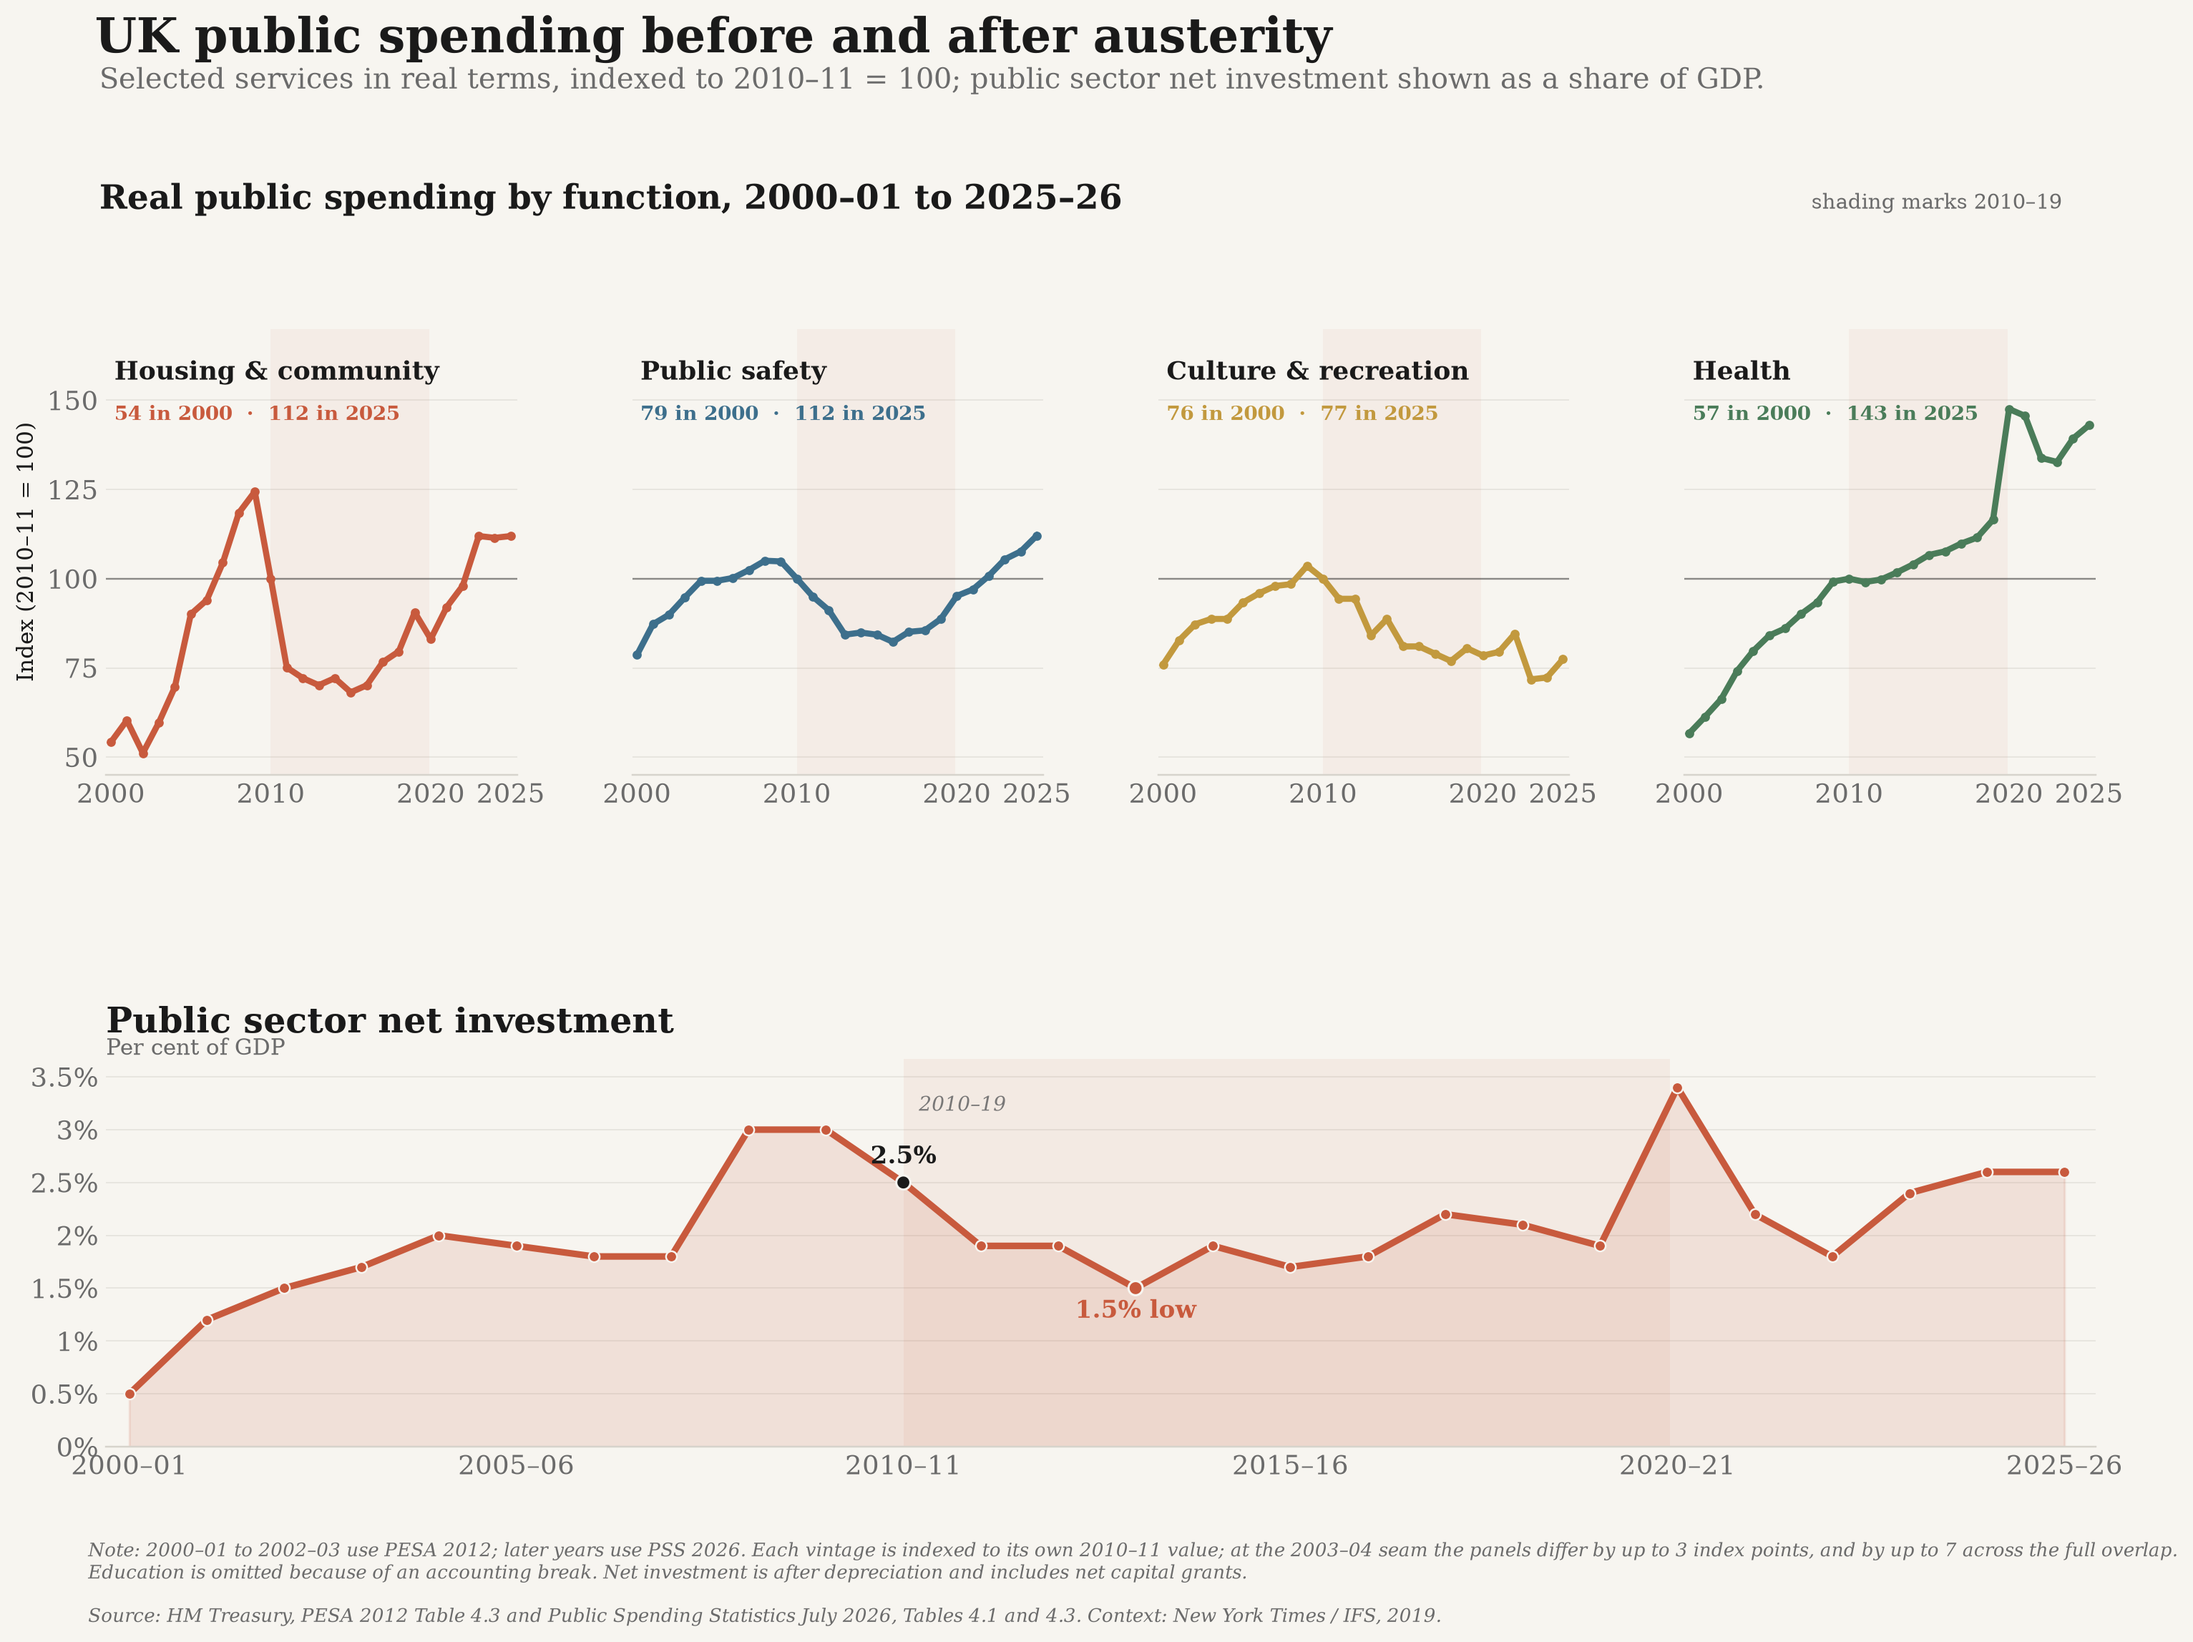
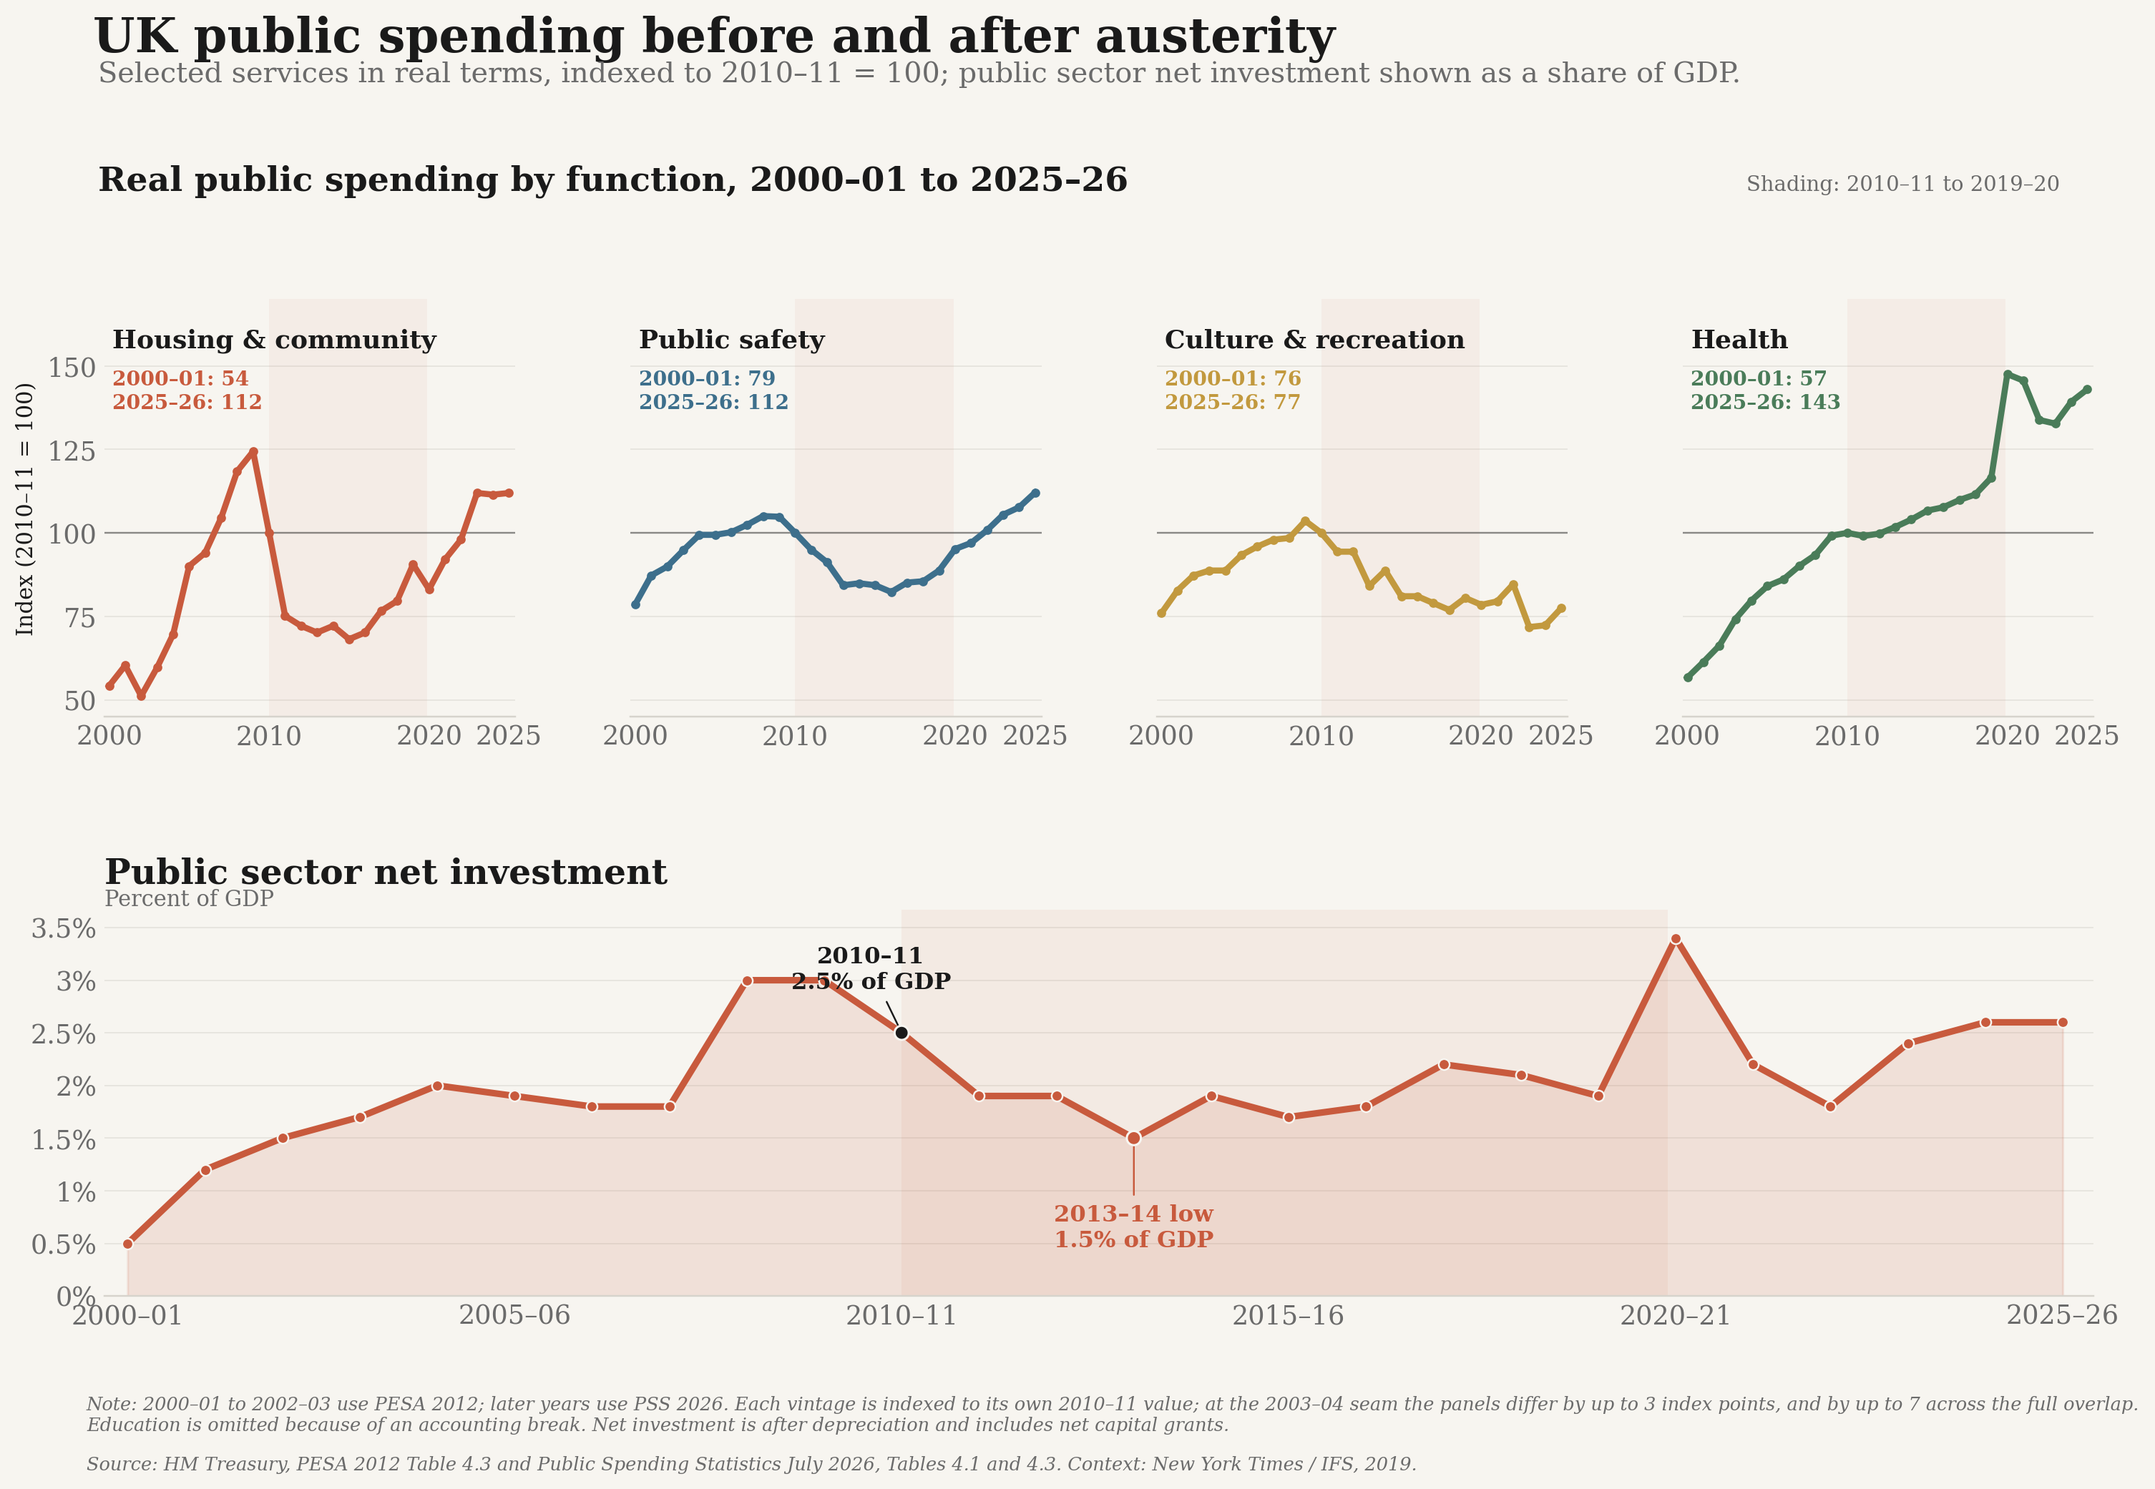
fix images

diff --git a/austerity_data/charts.py b/austerity_data/charts.py
@@ -123,11 +123,11 @@ def make_chart(source, output: Path | str = DEFAULT_OUTPUT) -> Path:
     df = _load(source)
     house_style()
 
-    fig = plt.figure(figsize=(14.2, 10.6), facecolor=BG)
+    fig = plt.figure(figsize=(14.2, 9.6), facecolor=BG)
     grid = fig.add_gridspec(
         2, 4,
-        height_ratios=[1.15, 1],
-        hspace=0.68,
+        height_ratios=[1.08, 1],
+        hspace=0.48,
         wspace=0.28,
     )
     service_axes = [fig.add_subplot(grid[0, i]) for i in range(4)]
@@ -191,12 +191,13 @@ def make_chart(source, output: Path | str = DEFAULT_OUTPUT) -> Path:
         )
         ax.text(
             0.02, 0.83,
-            f"{first['index']:.0f} in 2000  ·  {last['index']:.0f} in 2025",
+            f"2000–01: {first['index']:.0f}\n2025–26: {last['index']:.0f}",
             transform=ax.transAxes,
             fontsize=9.2,
             color=color,
             fontweight="bold",
             va="top",
+            linespacing=1.25,
         )
         ax.set_xlim(1999.7, 2025.4)
         ax.set_ylim(45, 170)
@@ -223,7 +224,7 @@ def make_chart(source, output: Path | str = DEFAULT_OUTPUT) -> Path:
     fig.text(
         0.94,
         0.862,
-        "shading marks 2010–19",
+        "Shading: 2010–11 to 2019–20",
         ha="right",
         fontsize=9.5,
         color=MUTED,
@@ -254,20 +255,29 @@ def make_chart(source, output: Path | str = DEFAULT_OUTPUT) -> Path:
     ax_invest.scatter([start["year"], trough["year"]],
                       [start["value"], trough["value"]],
                       s=42, color=[TEXT, ACCENT], edgecolor=BG, linewidth=1, zorder=6)
-    ax_invest.text(start["year"], start["value"] + 0.18,
-                   f"{start['value']:.1f}%", ha="center", fontsize=11,
-                   color=TEXT, fontweight="bold")
-    ax_invest.text(trough["year"], trough["value"] - 0.28,
-                   f"{trough['value']:.1f}% low", ha="center", fontsize=11,
-                   color=ACCENT, fontweight="bold")
-    ax_invest.text(
-        2010.2,
-        3.18,
-        "2010–19",
-        color=MUTED,
-        fontsize=9,
-        style="italic",
-        alpha=0.9,
+    ax_invest.annotate(
+        f"2010–11\n{start['value']:.1f}% of GDP",
+        xy=(start["year"], start["value"]),
+        xytext=(-14, 18),
+        textcoords="offset points",
+        ha="center",
+        va="bottom",
+        fontsize=10.5,
+        color=TEXT,
+        fontweight="bold",
+        arrowprops={"arrowstyle": "-", "color": TEXT, "linewidth": 0.8},
+    )
+    ax_invest.annotate(
+        f"2013–14 low\n{trough['value']:.1f}% of GDP",
+        xy=(trough["year"], trough["value"]),
+        xytext=(0, -30),
+        textcoords="offset points",
+        ha="center",
+        va="top",
+        fontsize=10.5,
+        color=ACCENT,
+        fontweight="bold",
+        arrowprops={"arrowstyle": "-", "color": ACCENT, "linewidth": 0.8},
     )
     ax_invest.set_title(
         "Public sector net investment",
@@ -278,7 +288,7 @@ def make_chart(source, output: Path | str = DEFAULT_OUTPUT) -> Path:
     ax_invest.text(
         0,
         1.01,
-        "Per cent of GDP",
+        "Percent of GDP",
         transform=ax_invest.transAxes,
         color=MUTED,
         fontsize=10,
@@ -323,7 +333,7 @@ def make_chart(source, output: Path | str = DEFAULT_OUTPUT) -> Path:
 
     output = Path(output)
     output.parent.mkdir(parents=True, exist_ok=True)
-    fig.subplots_adjust(left=0.065, right=0.955, top=0.79, bottom=0.12)
+    fig.subplots_adjust(left=0.065, right=0.955, top=0.79, bottom=0.13)
     fig.savefig(output, dpi=220, bbox_inches="tight", facecolor=BG)
     plt.close(fig)
     return output
